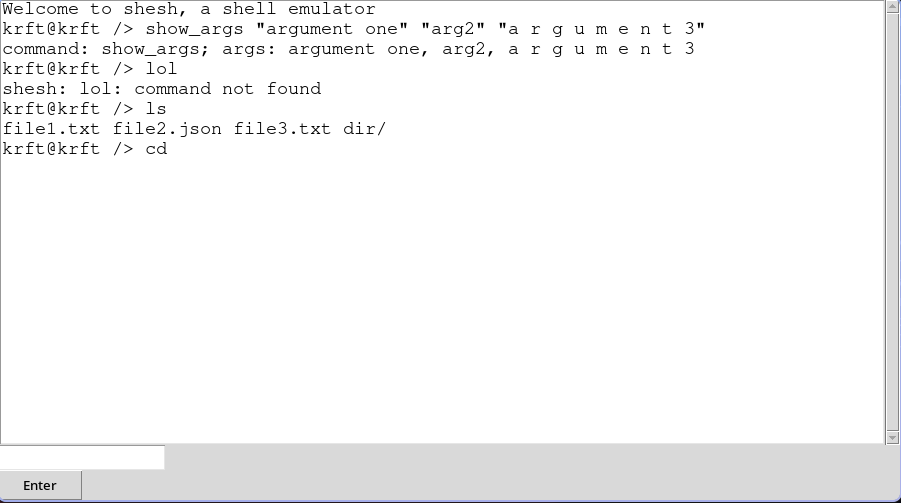
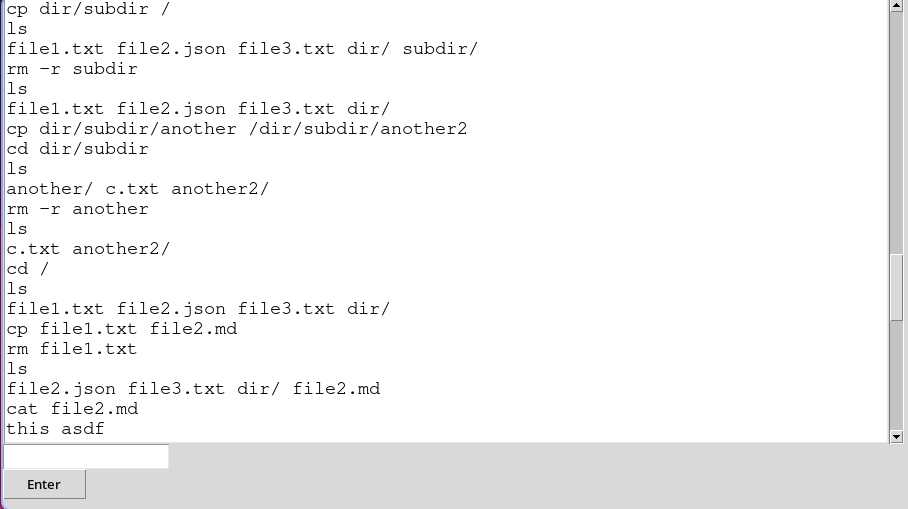
stage 5

Changed region(s): [[0.0, 0.0, 1.0, 1.0], [0.0622, 0.6859, 0.1554, 0.7157]]

diff --git a/main.py b/main.py
@@ -1,7 +1,6 @@
 import os
 import tkinter
 from tkinter import ttk
-import socket
 import sys
 import xml.etree.ElementTree as ET
 import base64
@@ -22,9 +21,6 @@ if not os.path.isfile(SHESH_VFS_PATH):
     exit(1)
 
 print(f"shesh: starting the VFS (VFS path: \"{SHESH_VFS_PATH}\", init script path: \"{SHESHRC_PATH}\")")
-
-LOGIN = os.getlogin()
-HOSTNAME = socket.gethostname()
 
 FILE_SYSTEM = {"type": "directory", "name": "/", "content": {}}
 BINARIES = {
@@ -118,7 +114,7 @@ def exec_command(command_string: str) -> str | None:
         return f"shesh: {args[0]}: command not found\n"
 
 def display_command(command_string: str) -> None:
-    add_text(output_widget, f"{LOGIN}@{HOSTNAME} {ENV_VARS["CWD"]}> {command_string}\n")
+    add_text(output_widget, f"{command_string}\n")
     command_output = exec_command(command_string)
     add_text(output_widget, command_output)
 
@@ -127,27 +123,22 @@ def process_user_input() -> None:
     display_command(command_string)
 
 def add_text(text_widget, content):
-    # Temporarily enable the widget to modify content
     text_widget.config(state=tkinter.NORMAL)
-    text_widget.insert(tkinter.END, content)  # Add text at the end
-    text_widget.config(state=tkinter.DISABLED)  # Make it readonly again
-    # Auto-scroll to the bottom
+    text_widget.insert(tkinter.END, content)
+    text_widget.config(state=tkinter.DISABLED)
     text_widget.see(tkinter.END)
 
 window = tkinter.Tk()
-window.title(f"VFS - {LOGIN}@{HOSTNAME}")
+window.title(f"VFS")
 
 input_field = ttk.Entry()
 
-# Create a frame to hold the text widget and scrollbar
 frame = ttk.Frame(window)
 frame.pack(anchor=tkinter.NW)
 
-# Create a vertical scrollbar
 scrollbar = ttk.Scrollbar(frame)
 scrollbar.pack(side=tkinter.RIGHT, fill=tkinter.Y)
 
-# Create the text widget with specified height (in lines)
 output_widget = tkinter.Text(
     frame, 
     height=22,
@@ -157,11 +148,8 @@ output_widget = tkinter.Text(
     state=tkinter.DISABLED,
     font=("Courier", 14)
 )
-add_text(output_widget, "Welcome to shesh, a shell emulator\n")
 
-# Configure the scrollbar to work with the text widget
 scrollbar.config(command=output_widget.yview)
-
 
 submit_btn = ttk.Button(text="Enter", command=process_user_input)
 

diff --git a/binaries.py b/binaries.py
@@ -63,7 +63,7 @@ def head(file_system, env_vars, args) -> str:
         file_system,
         shesh_os.resolve_path(file_system, env_vars["CWD"], file)
     ):
-        return f"{args[0]}: file does not exist"
+        return f"{args[0]}: file does not exist\n"
     if amount <= 0:
         return f"{args[0]}: amount of lines must be > 0\n"
     output = shesh_os.get_file_node(
